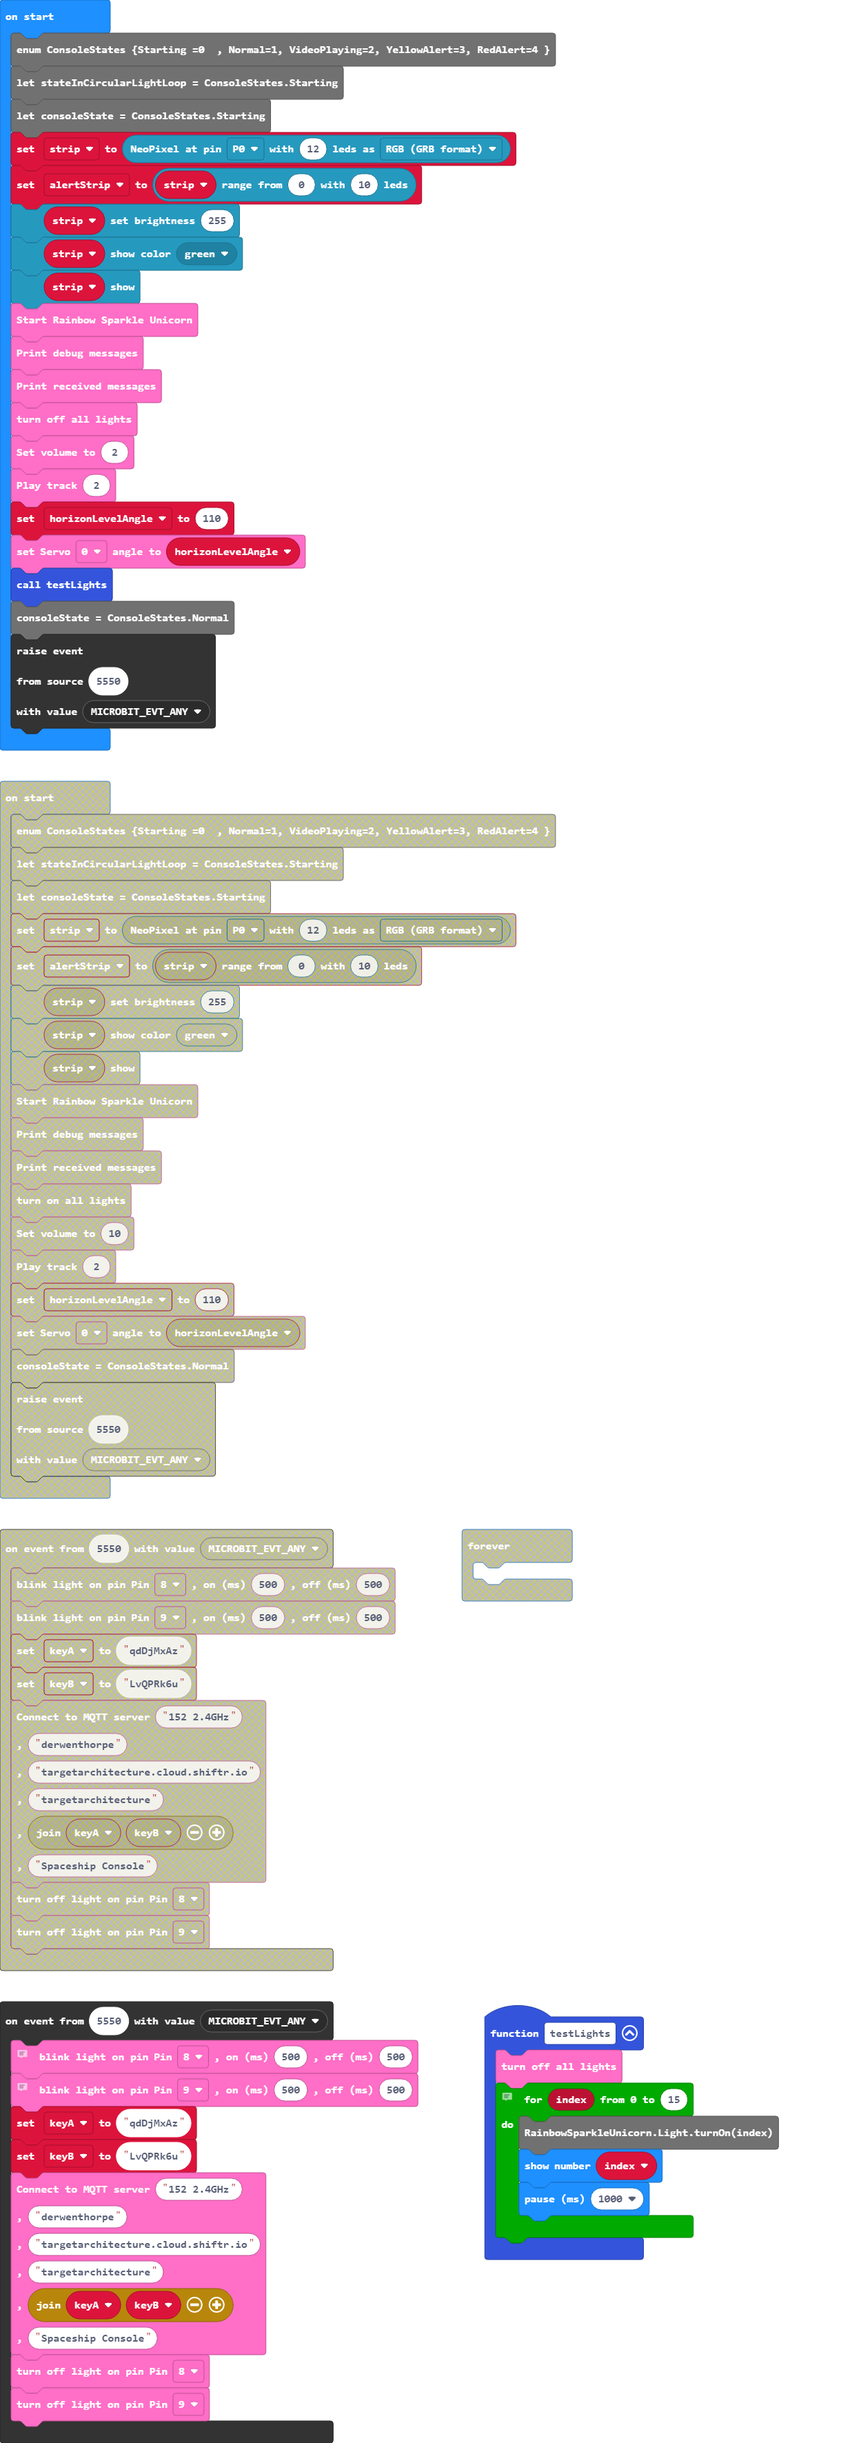
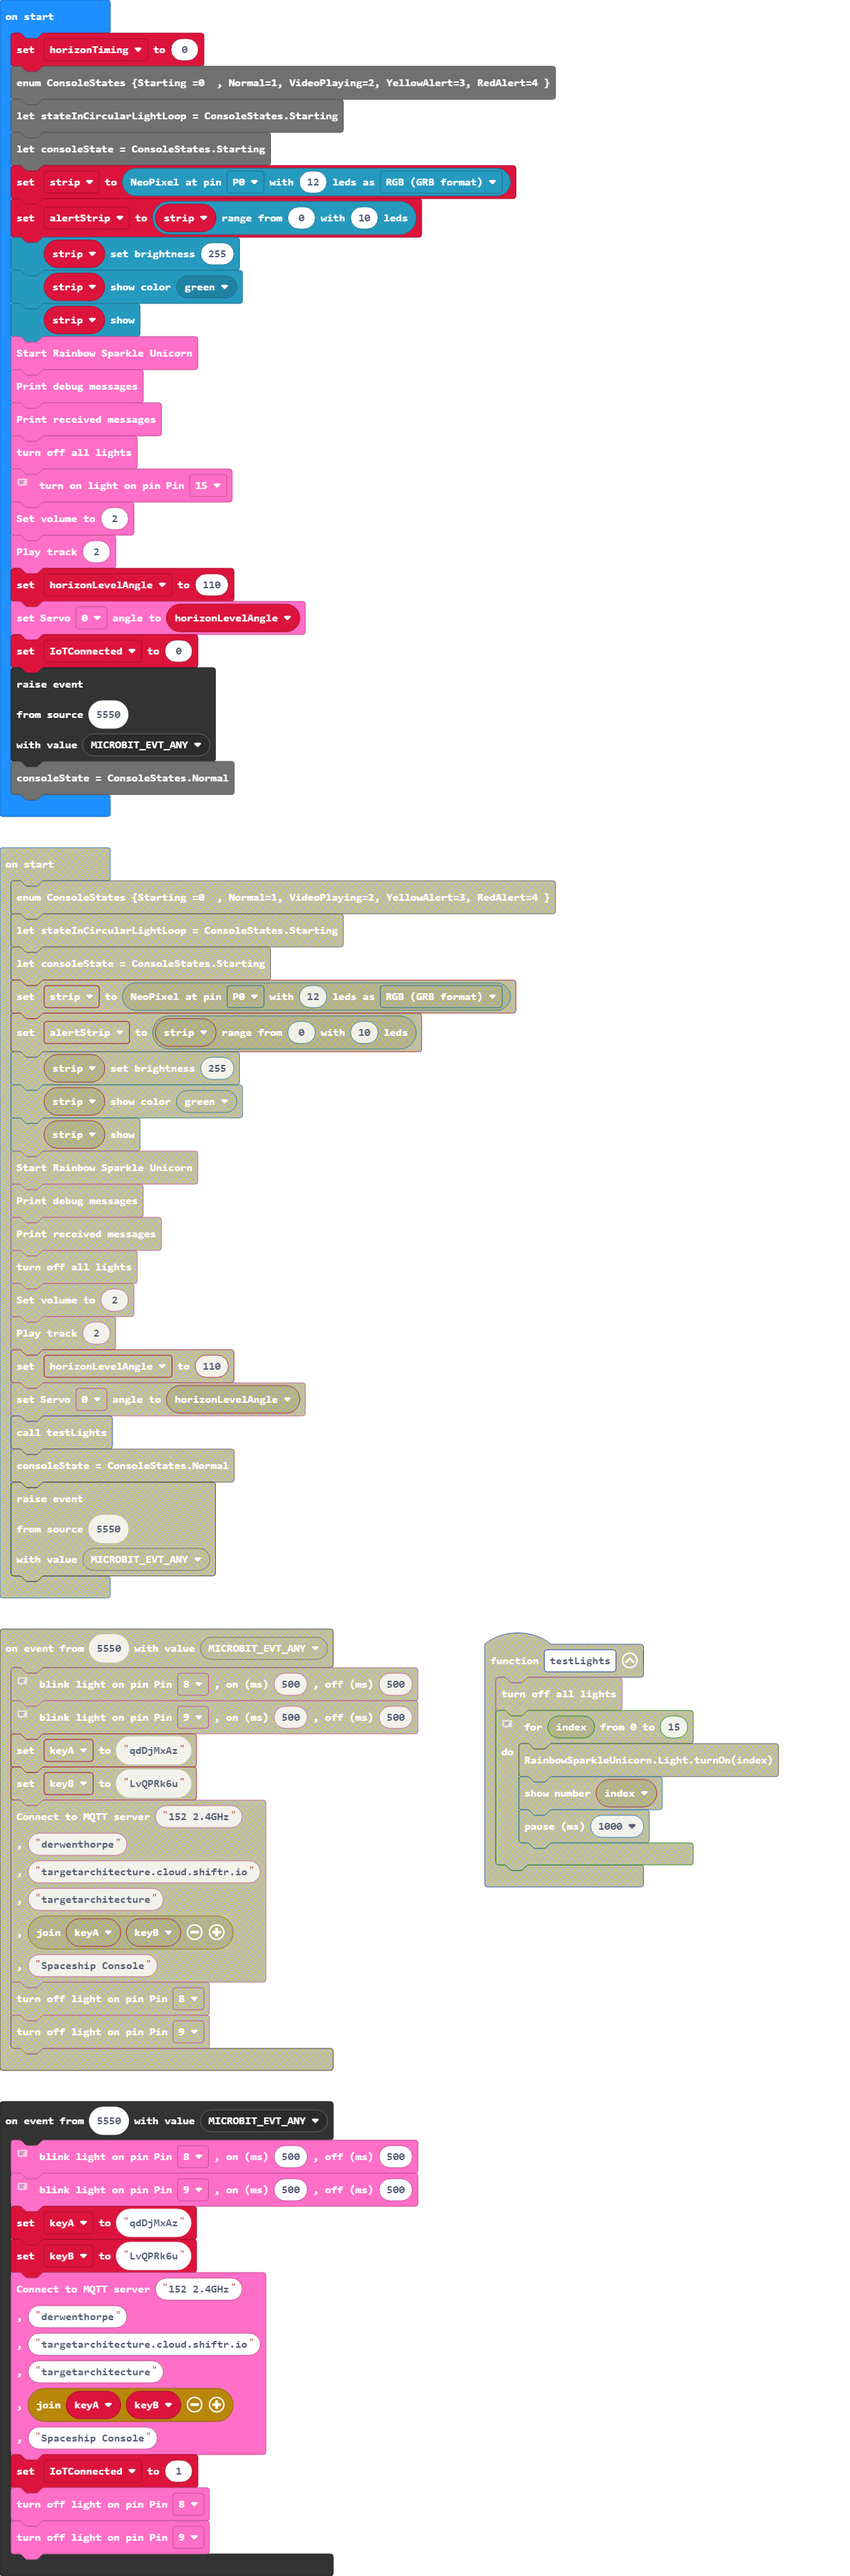
Update main.blocks, main.ts

Changed region(s): [[0.0, 0.0, 0.678, 0.9935], [0.5239, 0.6209, 0.9246, 0.7451], [0.5547, 0.8072, 0.9246, 0.9314]]

diff --git a/main.ts b/main.ts
@@ -13,6 +13,7 @@ control.onEvent(5550, EventBusValue.MICROBIT_EVT_ANY, function () {
     "" + keyA + keyB,
     "Spaceship Console"
     )
+    IoTConnected = 1
     RainbowSparkleUnicorn.Light.turnOff(lightPins.P8)
     RainbowSparkleUnicorn.Light.turnOff(lightPins.P9)
 })
@@ -23,7 +24,6 @@ RainbowSparkleUnicorn.Sound.playTrack(1)
 input.onButtonPressed(Button.A, function () {
     consoleState = ConsoleStates.VideoPlaying
 })
-
 input.onButtonPressed(Button.B, function () {
     consoleState = ConsoleStates.Normal
 })
@@ -33,6 +33,8 @@ input.onLogoEvent(TouchButtonEvent.Pressed, function () {
 let circularLightLoopPauseMs = 0
 let keyB = ""
 let keyA = ""
+let IoTConnected = 0
+let horizonTiming = 0
 enum ConsoleStates {Starting =0  , Normal=1, VideoPlaying=2, YellowAlert=3, RedAlert=4 }
 let stateInCircularLightLoop = ConsoleStates.Starting
 let consoleState = ConsoleStates.Starting
@@ -45,16 +47,18 @@ RainbowSparkleUnicorn.start()
 RainbowSparkleUnicorn.printDebugMessages()
 RainbowSparkleUnicorn.printReceivedMessages()
 RainbowSparkleUnicorn.Light.turnAllOff()
+// This is the big red button
+RainbowSparkleUnicorn.Light.turnOn(lightPins.P15)
 RainbowSparkleUnicorn.Sound.setVolume(2)
 RainbowSparkleUnicorn.Sound.playTrack(2)
 let horizonLevelAngle = 110
 RainbowSparkleUnicorn.Movement.setServoAngle(Servo.P0, horizonLevelAngle)
-
-consoleState = ConsoleStates.Normal
+IoTConnected = 0
 control.raiseEvent(
 5550,
 EventBusValue.MICROBIT_EVT_ANY
 )
+consoleState = ConsoleStates.Normal
 basic.forever(function () {
     comment.comment("This loop controls the gauge")
     if (consoleState == ConsoleStates.Normal) {
@@ -113,4 +117,32 @@ basic.forever(function () {
     stateInCircularLightLoop = consoleState
     comment.comment("pause for how long...")
     basic.pause(circularLightLoopPauseMs)
+})
+
+
+basic.forever(function () {
+    comment.comment("This loop controls the artificial horizon")
+    if (consoleState == ConsoleStates.Starting) {
+        serial.writeLine("This loop controls the artificial horizon")
+        horizonLevelAngle = 110
+        RainbowSparkleUnicorn.Movement.setServoAngle(Servo.P0, horizonLevelAngle)
+        basic.pause(1000)
+    } else if (consoleState == ConsoleStates.Normal) {
+        while (true) {
+            horizonTiming = 5
+            serial.writeLine("moveServoLinear")
+            RainbowSparkleUnicorn.Movement.moveServoLinear(Servo.P0, horizonLevelAngle, horizonLevelAngle+20, horizonTiming)
+            basic.pause(horizonTiming * 1000*2)
+            serial.writeLine("moveServoLinear")
+            RainbowSparkleUnicorn.Movement.moveServoLinear(Servo.P0, horizonLevelAngle+20, horizonLevelAngle, horizonTiming)
+            basic.pause(horizonTiming * 1000*2)
+            serial.writeLine("moveServoLinear")
+            RainbowSparkleUnicorn.Movement.moveServoLinear(Servo.P0, horizonLevelAngle, horizonLevelAngle-20, horizonTiming)
+            basic.pause(horizonTiming * 1000*2)
+            serial.writeLine("moveServoLinear")
+            RainbowSparkleUnicorn.Movement.moveServoLinear(Servo.P0, horizonLevelAngle-20, horizonLevelAngle, horizonTiming)
+            basic.pause(horizonTiming * 1000*2)
+serial.writeLine("moveServoLinear")
+        }
+    }
 })
